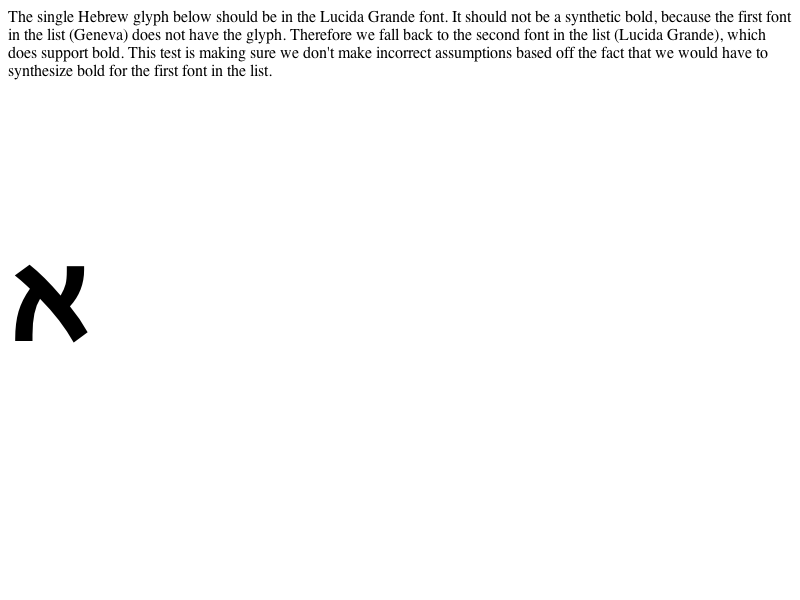
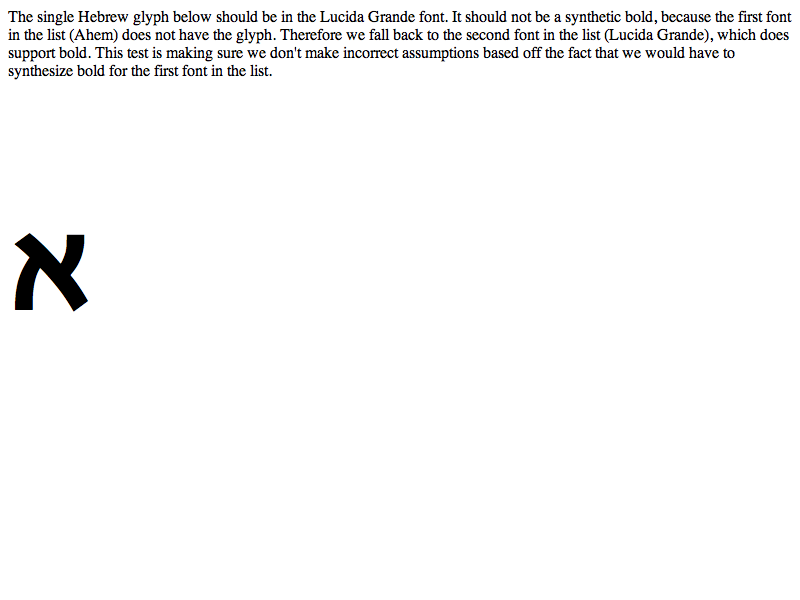
Reviewed by Dave Hyatt.
- address the remaining tests listed under <rdar://problem/5075790> Layout tests that depend on certain fonts don't match Mac results

        * fast/text/cg-fallback-bolding.html: Changed to use Ahem instead of
        Geneva.
        * fast/text/international/bidi-fallback-font-weight.html: Made Mac-only.
        * platform/mac/fast/text/cg-fallback-bolding-expected.checksum: Updated.
        * platform/mac/fast/text/cg-fallback-bolding-expected.png: Updated
        * platform/mac/fast/text/cg-fallback-bolding-expected.txt: Updated.
        * platform/mac/fast/text/international/bidi-fallback-font-weight.html: Copied from LayoutTests/fast/text/international/bidi-fallback-font-weight.html.
        * platform/win/Skipped: Removed passing tests and categorized remaining
        failures.
        * platform/win/svg/W3C-SVG-1.1: Added.
        * platform/win/svg/W3C-SVG-1.1/resources: Added.
        * platform/win/svg/W3C-SVG-1.1/resources/Mac-compatible-font-fallback.css: Added.
        * platform/win/svg/W3C-SVG-1.1/resources/run-webkit-tests-epilogue.html: Added.
        * platform/win/svg/W3C-SVG-1.1/resources/run-webkit-tests-prologue.html: Added.
        * svg/text/text-tselect-02-f.svg: Added @font-face rule to use Lucida
        Grande for Hebrew.

git-svn-id: http://svn.webkit.org/repository/webkit/trunk/LayoutTests@29928 268f45cc-cd09-0410-ab3c-d52691b4dbfc

Changed region(s): [[0.0, 0.0, 1.0, 0.15], [0.0, 0.39, 0.125, 0.57]]

diff --git a/fast/text/cg-fallback-bolding.html b/fast/text/cg-fallback-bolding.html
@@ -1,7 +1,7 @@
-<p>The single Hebrew glyph below should be in the Lucida Grande font.  It should not be a synthetic bold, because the first font in the list (Geneva)
+<p>The single Hebrew glyph below should be in the Lucida Grande font.  It should not be a synthetic bold, because the first font in the list (Ahem)
 does not have the glyph.  Therefore we fall back to the second font in the list (Lucida Grande), which does support bold.  This test is making sure
 we don't make incorrect assumptions based off the fact that we would have to synthesize bold for the first font in the list.
 
 </p>
-<p style="font-size:128px;font-weight:bold; font-family: Geneva, 'Lucida Grande'">
+<p style="font-size:128px;font-weight:bold; font-family: Ahem, 'Lucida Grande'">
 &#x05d0;</p>

diff --git a/platform/win/svg/W3C-SVG-1.1/resources/run-webkit-tests-prologue.html b/platform/win/svg/W3C-SVG-1.1/resources/run-webkit-tests-prologue.html
@@ -1,0 +1,3 @@
+<script>
+layoutTestController.setPersistentUserStyleSheetLocation(document.documentURI.replace(/[^/]*$/g, "") + "Mac-compatible-font-fallback.css");
+</script>

diff --git a/platform/win/svg/W3C-SVG-1.1/resources/Mac-compatible-font-fallback.css b/platform/win/svg/W3C-SVG-1.1/resources/Mac-compatible-font-fallback.css
@@ -1,0 +1,7 @@
+/* Hebrew */
+
+@font-face {
+    font-family: 'times';
+    src: local('Lucida Grande');
+    unicode-range: U+0590-05FF;
+}

diff --git a/platform/win/svg/W3C-SVG-1.1/resources/run-webkit-tests-epilogue.html b/platform/win/svg/W3C-SVG-1.1/resources/run-webkit-tests-epilogue.html
@@ -1,0 +1,3 @@
+<script>
+layoutTestController.clearPersistentUserStyleSheet();
+</script>
